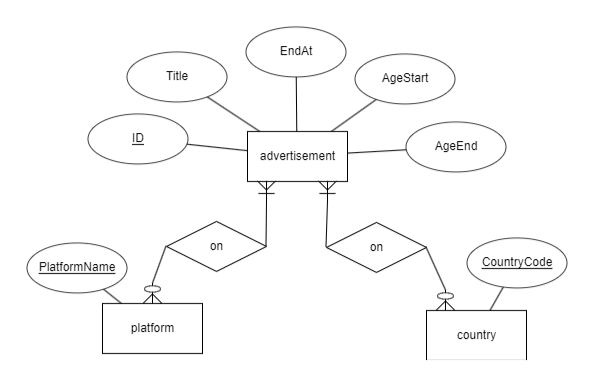
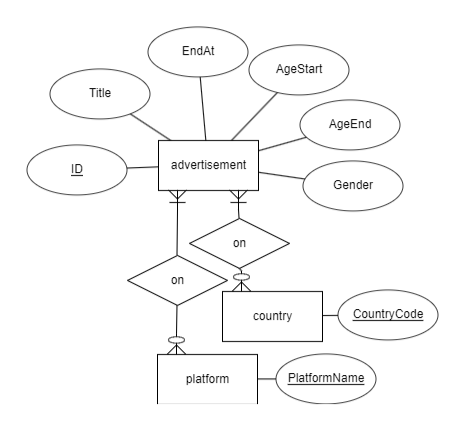
docs: 修改文檔的錯誤

diff --git a/README.md b/README.md
@@ -29,6 +29,8 @@ public API：用於根據特定條件列出符合條件的廣告。
 	<img src="./img/schema.png">
 	<img src="./img/ER_model.png">
 </div> 
+ 
+-	對ID、AgeEnd、AgeStart、Gender設置index提高搜尋速度
 
 ## 技術選擇
 
@@ -44,7 +46,7 @@ public API：用於根據特定條件列出符合條件的廣告。
 - [go-gorm/cache](https://github.com/go-gorm/caches)
 - [Validator](https://github.com/go-playground/validator)
 
-### 技術選擇
+### 使用原因
 
 - Validator：它是用來驗證輸入的Library。僅需要在struct中設定好限制就能方便的驗出錯誤。
 - go-redis：redis的客戶端。
@@ -57,5 +59,5 @@ public API：用於根據特定條件列出符合條件的廣告。
 3. 執行以下命令來啟動容器：
 
 ```bash
-docker-compose up
+docker compose up --build
 ```
